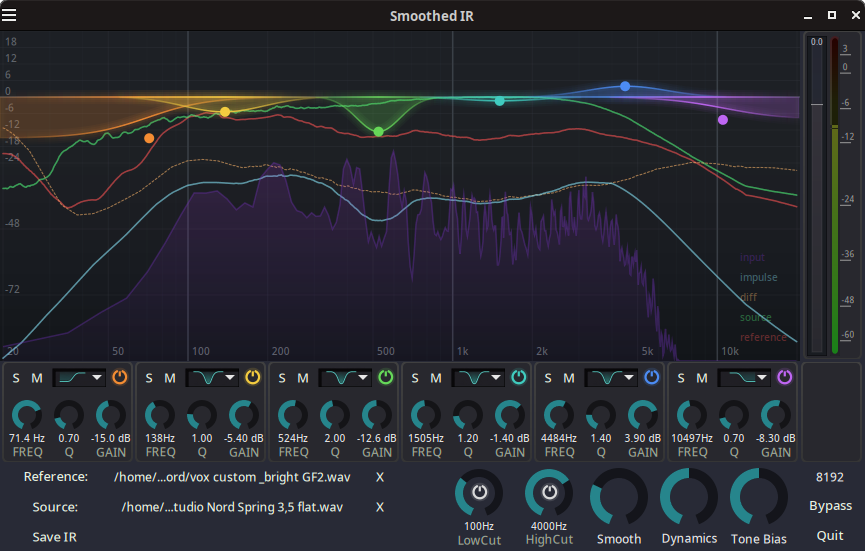
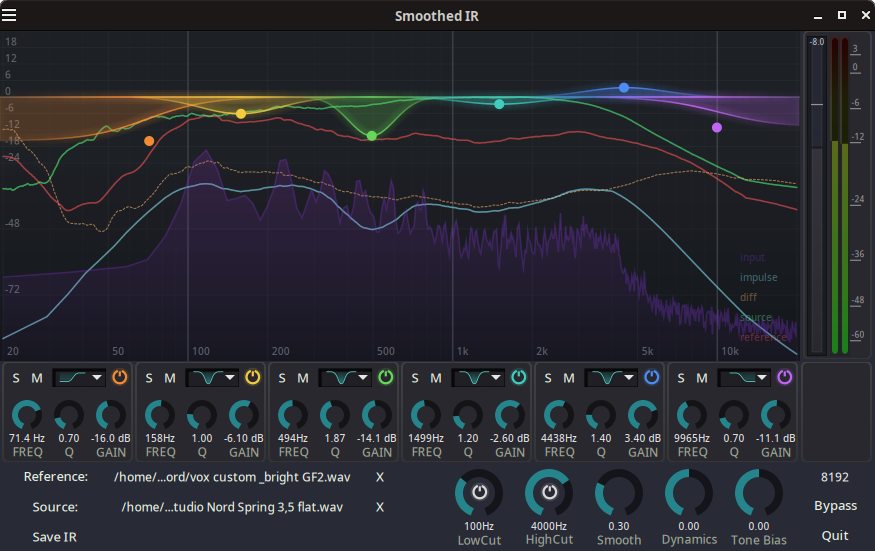
Update Readme

diff --git a/SmoothIR/clap/SmoothIRClap.cpp b/SmoothIR/clap/SmoothIRClap.cpp
@@ -460,7 +460,7 @@ static const clap_plugin_descriptor_t smoothir_descriptor = {
     .url = "https://github.com/brummer10/SmoothIR",
     .manual_url = "https://github.com/brummer10/SmoothIR",
     .support_url = "https://github.com/brummer10/SmoothIR",
-    .version = "0.1.0",
+    .version = "0.3.0",
     .description = "CLAP plugin wrapper for SmoothIR",
     .features = (const char *[]){ CLAP_PLUGIN_FEATURE_AUDIO_EFFECT, NULL },
 };

diff --git a/README.md b/README.md
@@ -7,6 +7,8 @@
 **SmoothIR** is a tool for creating impulse responses (IRs) through spectral matching of two audio files  
 – with a focus on **musically useful results**, stability, and predictable behavior.
 
+**SmoothEQ** is a Linear Phase EQ based on Impulse Response Processing as Clap plugin.
+
 The idea is simple:
 
 > The spectral difference between a *Reference* and a *Source* is transformed into an IR  
@@ -158,7 +160,7 @@ Internally:
 SmoothIR behaves robustly depending on available inputs:
 
 * **Reference + Source** → full spectral matching  
-* **Reference only** → spectral capture  
+* **Reference only** →  visualize the Reference spectrum
 * **Source only** → spectrum capture  
 
 Missing inputs do **not** produce undefined behavior.
@@ -245,6 +247,11 @@ SmoothIR relies on a small set of widely available libraries:
     git submodule update
     make
     sudo make install
+
+## Build as Clap plugin
+
+    make clap
+    make install
 
 ---
 
